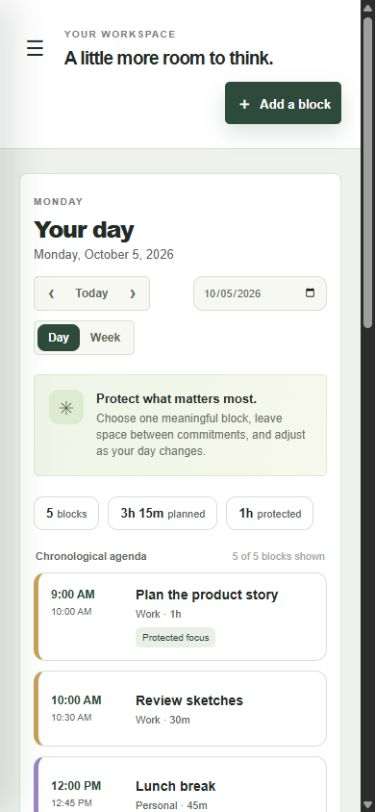
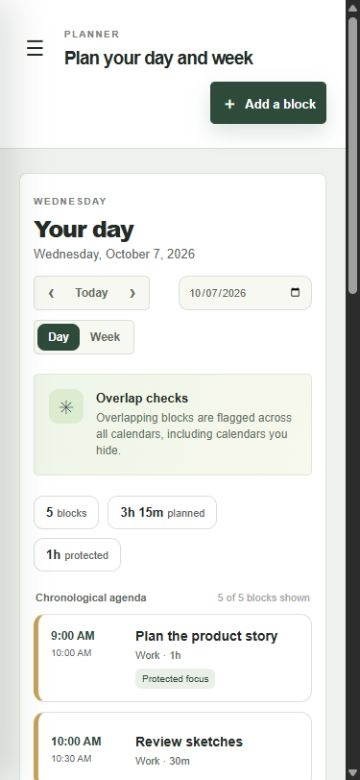
Replace Daybreak slogans with functional copy and current screenshots

diff --git a/daybreak.html b/daybreak.html
@@ -4,7 +4,7 @@
   <meta charset="utf-8">
   <meta name="viewport" content="width=device-width, initial-scale=1">
   <meta name="theme-color" content="#f4f3ed">
-  <meta name="description" content="An independent interactive concept for a calm calendar and focus workspace.">
+  <meta name="description" content="Schedule time blocks, check overlaps and run a focus timer. Independent browser-based planning demo.">
   <title>Daybreak - Planning and focus concept</title>
   <link rel="stylesheet" href="daybreak-styles.css"><link rel="stylesheet" href="daybreak-rebuild.css">
 </head>
@@ -13,7 +13,7 @@
   <div class="shell">
     <aside class="sidebar" id="sidebar" aria-label="Workspace navigation">
       <div class="brand"><span class="brand-mark" aria-hidden="true"><i></i><i></i><i></i></span><span>daybreak</span></div>
-      <p class="brand-subtitle">A calmer way to make room.</p>
+      <p class="brand-subtitle">Daily and weekly planning</p>
 
       <nav class="main-nav" aria-label="Views">
         <button type="button" class="nav-button is-current" id="navToday" aria-current="page"><span class="nav-icon" aria-hidden="true">◫</span>Today</button>
@@ -36,7 +36,7 @@
 
     <main id="main">
       <header class="topbar">
-        <div class="topbar-copy"><button id="mobileMenu" type="button" class="mobile-menu" aria-controls="sidebar" aria-expanded="false" aria-label="Open navigation">☰</button><div><span class="eyebrow">Your workspace</span><h1 id="pageTitle">A little more room to think.</h1></div></div>
+        <div class="topbar-copy"><button id="mobileMenu" type="button" class="mobile-menu" aria-controls="sidebar" aria-expanded="false" aria-label="Open navigation">☰</button><div><span class="eyebrow">Planner</span><h1 id="pageTitle">Plan your day and week</h1></div></div>
         <button class="primary-button" id="addEvent" type="button"><span aria-hidden="true">＋</span> Add a block</button>
       </header>
 
@@ -49,17 +49,17 @@
             <div class="planner-controls"><div class="date-nav" aria-label="Change date"><button id="previousDate" type="button" aria-label="Previous day">‹</button><button id="todayDate" type="button">Today</button><button id="nextDate" type="button" aria-label="Next day">›</button></div><input id="jumpDate" class="jump-date" type="date" aria-label="Choose planner date"><div class="view-switch" role="group" aria-label="Planner view"><button id="dayViewButton" type="button" class="is-active" aria-pressed="true">Day</button><button id="weekViewButton" type="button" aria-pressed="false">Week</button></div></div>
           </div>
 
-          <div class="guidance"><div class="guidance-icon" aria-hidden="true">✳</div><div><strong>Protect what matters most.</strong><p>Choose one meaningful block, leave space between commitments, and adjust as your day changes.</p></div></div>
+          <div class="guidance"><div class="guidance-icon" aria-hidden="true">✳</div><div><strong>Overlap checks</strong><p>Overlapping blocks are flagged across all calendars, including calendars you hide.</p></div></div>
 
-          <div id="dayView" class="day-view"><div class="day-stats" id="dayStats" aria-live="polite"></div><div class="timeline-head"><span>Chronological agenda</span><span id="visibleCount"></span></div><div id="dayAgenda" class="day-agenda"></div><div id="dayEmpty" class="empty-state" hidden><strong id="emptyTitle">A clear day is still a good day.</strong><p id="emptyDescription">Add a block when you know what needs your attention.</p><button type="button" class="secondary-button" id="emptyAdd">Add a block</button><button type="button" class="text-button" id="showAllCalendars" hidden>Show all calendars</button></div></div>
+          <div id="dayView" class="day-view"><div class="day-stats" id="dayStats" aria-live="polite"></div><div class="timeline-head"><span>Chronological agenda</span><span id="visibleCount"></span></div><div id="dayAgenda" class="day-agenda"></div><div id="dayEmpty" class="empty-state" hidden><strong id="emptyTitle">No blocks scheduled</strong><p id="emptyDescription">Add a block with a title, start time and duration.</p><button type="button" class="secondary-button" id="emptyAdd">Add a block</button><button type="button" class="text-button" id="showAllCalendars" hidden>Show all calendars</button></div></div>
 
           <div id="weekView" class="week-view" hidden><div id="weekGrid" class="week-grid" aria-label="Seven-day agenda"></div><p class="view-note">Select a day to see or edit its full schedule.</p></div>
         </section>
 
         <aside class="right-rail" aria-label="Focus and reset tools">
-          <section class="focus-card"><div class="card-top"><span class="eyebrow">Deep focus</span><span id="timerState" class="state-pill">Ready</span></div><h2>One task at a time.</h2><p class="card-intro">Set aside a quiet stretch for the work that needs you.</p><div class="find-focus"><p id="focusSuggestion">Find a clear interval in your entered plan. Hidden calendars still count.</p><button type="button" id="findFocusButton">Find 25 minutes</button><button type="button" id="addSuggestedBlock" hidden>Add suggested block</button></div><div class="timer-display" id="timerDisplay" aria-live="off">50:00</div><div class="timer-presets" role="group" aria-label="Focus duration"><button type="button" data-minutes="25">25 min</button><button type="button" data-minutes="50" class="is-active">50 min</button><button type="button" data-minutes="90">90 min</button></div><div class="timer-actions"><button type="button" class="light-button" id="timerStart">Start focus</button><button type="button" class="quiet-button" id="timerReset">End</button></div><p class="fine-print">An on-screen timer only. Other apps and notifications are unchanged.</p></section>
+          <section class="focus-card"><div class="card-top"><span class="eyebrow">Deep focus</span><span id="timerState" class="state-pill">Ready</span></div><h2>Focus timer</h2><p class="card-intro">Choose 25, 50 or 90 minutes. Pause and resume the timer as needed.</p><div class="find-focus"><p id="focusSuggestion">Find a clear interval in your entered plan. Hidden calendars still count.</p><button type="button" id="findFocusButton">Find 25 minutes</button><button type="button" id="addSuggestedBlock" hidden>Add suggested block</button></div><div class="timer-display" id="timerDisplay" aria-live="off">50:00</div><div class="timer-presets" role="group" aria-label="Focus duration"><button type="button" data-minutes="25">25 min</button><button type="button" data-minutes="50" class="is-active">50 min</button><button type="button" data-minutes="90">90 min</button></div><div class="timer-actions"><button type="button" class="light-button" id="timerStart">Start focus</button><button type="button" class="quiet-button" id="timerReset">End</button></div><p class="fine-print">An on-screen timer only. Other apps and notifications are unchanged.</p></section>
 
-          <section class="reset-card"><div class="reset-head"><div><span class="eyebrow">Optional pause</span><h2>A moment to notice.</h2></div><span class="breathing-orb" id="breathingOrb" aria-hidden="true"></span></div><p id="breathingPrompt">Sit comfortably. Notice your natural breathing or a sound around you. Stop anytime.</p><div class="meditation-presets" role="group" aria-label="Meditation duration"><button type="button" data-meditation-minutes="1">1 min</button><button type="button" data-meditation-minutes="2" class="is-active">2 min</button><button type="button" data-meditation-minutes="5">5 min</button></div><div class="meditation-actions"><button type="button" class="text-button" id="breathingButton">Start quiet timer</button><span id="meditationDisplay">02:00</span></div><button type="button" class="text-button" id="endMeditation" hidden>End quiet timer</button><p class="fine-print">Optional wellbeing activity, not treatment. Stop if uncomfortable.</p></section>
+          <section class="reset-card"><div class="reset-head"><div><span class="eyebrow">Optional pause</span><h2>Quiet timer</h2></div><span class="breathing-orb" id="breathingOrb" aria-hidden="true"></span></div><p id="breathingPrompt">Sit comfortably. Notice your natural breathing or a sound around you. Stop anytime.</p><div class="meditation-presets" role="group" aria-label="Meditation duration"><button type="button" data-meditation-minutes="1">1 min</button><button type="button" data-meditation-minutes="2" class="is-active">2 min</button><button type="button" data-meditation-minutes="5">5 min</button></div><div class="meditation-actions"><button type="button" class="text-button" id="breathingButton">Start quiet timer</button><span id="meditationDisplay">02:00</span></div><button type="button" class="text-button" id="endMeditation" hidden>End quiet timer</button><p class="fine-print">Optional wellbeing activity, not treatment. Stop if uncomfortable.</p></section>
 
           <section class="summary-card"><span class="eyebrow">At a glance</span><h2 id="summaryTitle">Today's plan</h2><div id="summaryRows"></div></section>
         </aside>
@@ -68,7 +68,7 @@
     </main>
   </div>
 
-  <div class="dialog-backdrop" id="eventDialog" hidden><section class="dialog" role="dialog" aria-modal="true" aria-labelledby="dialogTitle"><button class="dialog-close" id="dialogClose" type="button" aria-label="Close dialog">×</button><span class="eyebrow">Time block</span><h2 id="dialogTitle">Make room for something.</h2><p id="dialogSubtitle">You can always move it later.</p><form id="eventForm" novalidate><input type="hidden" id="eventId"><label for="eventTitle">Title<input id="eventTitle" name="title" type="text" maxlength="70" required placeholder="What will you focus on?"><span class="field-error" id="titleError"></span></label><div class="form-pair"><label for="eventDate">Date<input id="eventDate" name="date" type="date" required><span class="field-error" id="dateError"></span></label><label for="eventStart">Start<input id="eventStart" name="start" type="time" required><span class="field-error" id="startError"></span></label></div><div class="form-pair"><label for="eventDuration">Duration<select id="eventDuration" name="duration"><option value="15">15 minutes</option><option value="30">30 minutes</option><option value="45">45 minutes</option><option value="60" selected>1 hour</option><option value="90">1 hour 30 minutes</option><option value="120">2 hours</option><option value="180">3 hours</option><option value="240">4 hours</option></select><span class="field-error" id="durationError"></span></label><label for="eventCalendar">Calendar<select id="eventCalendar" name="calendar"><option value="work">Work</option><option value="personal">Personal</option><option value="family">Family</option></select><span class="field-error" id="calendarError"></span></label></div><label class="checkbox-row"><input id="eventProtected" name="protected" type="checkbox"><span>Mark as protected focus time</span></label><p id="overlapWarning" class="overlap-warning" hidden></p><div class="dialog-actions"><button id="deleteEvent" class="danger-button" type="button" hidden>Delete block</button><button class="primary-button" type="submit" id="saveEvent">Add block</button></div></form></section></div>
+  <div class="dialog-backdrop" id="eventDialog" hidden><section class="dialog" role="dialog" aria-modal="true" aria-labelledby="dialogTitle"><button class="dialog-close" id="dialogClose" type="button" aria-label="Close dialog">×</button><span class="eyebrow">Time block</span><h2 id="dialogTitle">Add a time block</h2><p id="dialogSubtitle">Choose a date, start time, duration and calendar.</p><form id="eventForm" novalidate><input type="hidden" id="eventId"><label for="eventTitle">Title<input id="eventTitle" name="title" type="text" maxlength="70" required placeholder="e.g. Review expense report"><span class="field-error" id="titleError"></span></label><div class="form-pair"><label for="eventDate">Date<input id="eventDate" name="date" type="date" required><span class="field-error" id="dateError"></span></label><label for="eventStart">Start<input id="eventStart" name="start" type="time" required><span class="field-error" id="startError"></span></label></div><div class="form-pair"><label for="eventDuration">Duration<select id="eventDuration" name="duration"><option value="15">15 minutes</option><option value="30">30 minutes</option><option value="45">45 minutes</option><option value="60" selected>1 hour</option><option value="90">1 hour 30 minutes</option><option value="120">2 hours</option><option value="180">3 hours</option><option value="240">4 hours</option></select><span class="field-error" id="durationError"></span></label><label for="eventCalendar">Calendar<select id="eventCalendar" name="calendar"><option value="work">Work</option><option value="personal">Personal</option><option value="family">Family</option></select><span class="field-error" id="calendarError"></span></label></div><label class="checkbox-row"><input id="eventProtected" name="protected" type="checkbox"><span>Mark as protected focus time</span></label><p id="overlapWarning" class="overlap-warning" hidden></p><div class="dialog-actions"><button id="deleteEvent" class="danger-button" type="button" hidden>Delete block</button><button class="primary-button" type="submit" id="saveEvent">Add block</button></div></form></section></div>
   <div class="toast" id="toast" role="status" aria-live="polite"></div>
   <script type="module" src="daybreak-app.js"></script>
 </body>

diff --git a/daybreak-app.js b/daybreak-app.js
@@ -157,7 +157,7 @@ function renderDay() {
   if (!shown.length) {
     const allHidden = !state.filters.length;
     $("#emptyTitle").textContent = allHidden ? "All calendars are hidden." : all.length ? "No blocks match these calendars." : `Nothing planned for ${formatDate(state.selectedDate, { weekday: "long", month: "long", day: "numeric" })}.`;
-    $("#emptyDescription").textContent = all.length ? "The blocks are still saved. Change your filters to see them." : "Add a block when you know what needs your attention.";
+    $("#emptyDescription").textContent = all.length ? "The blocks are still saved. Change your filters to see them." : "Add a block with a title, start time and duration.";
     $("#showAllCalendars").hidden = !all.length;
   }
   $("#summaryTitle").textContent = state.selectedDate === todayKey() ? "Today's plan" : "Selected day's plan";
@@ -219,7 +219,7 @@ function openEditor(item = null, date = state.selectedDate, start = defaultStart
   $("#eventDuration").value = String(item?.duration ?? 30);
   $("#eventCalendar").value = item?.calendar ?? "work";
   $("#eventProtected").checked = item?.protected ?? protectedTime;
-  $("#dialogTitle").textContent = item ? "Edit this block." : "Make room for something.";
+  $("#dialogTitle").textContent = item ? "Edit time block" : "Add a time block";
   $("#saveEvent").textContent = item ? "Save changes" : "Add block";
   $("#deleteEvent").hidden = !item;
   $("#overlapWarning").hidden = true;
